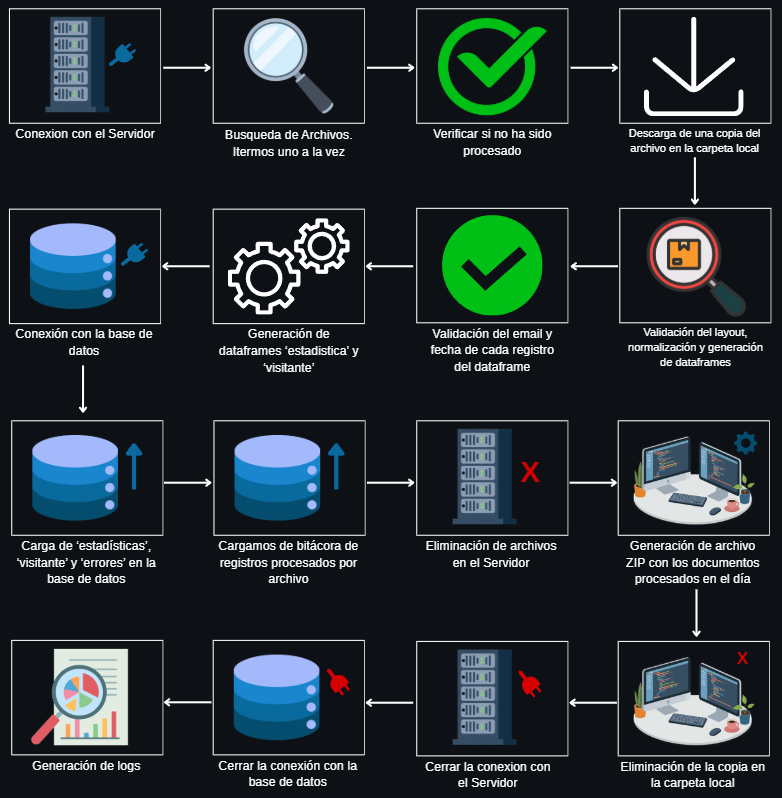
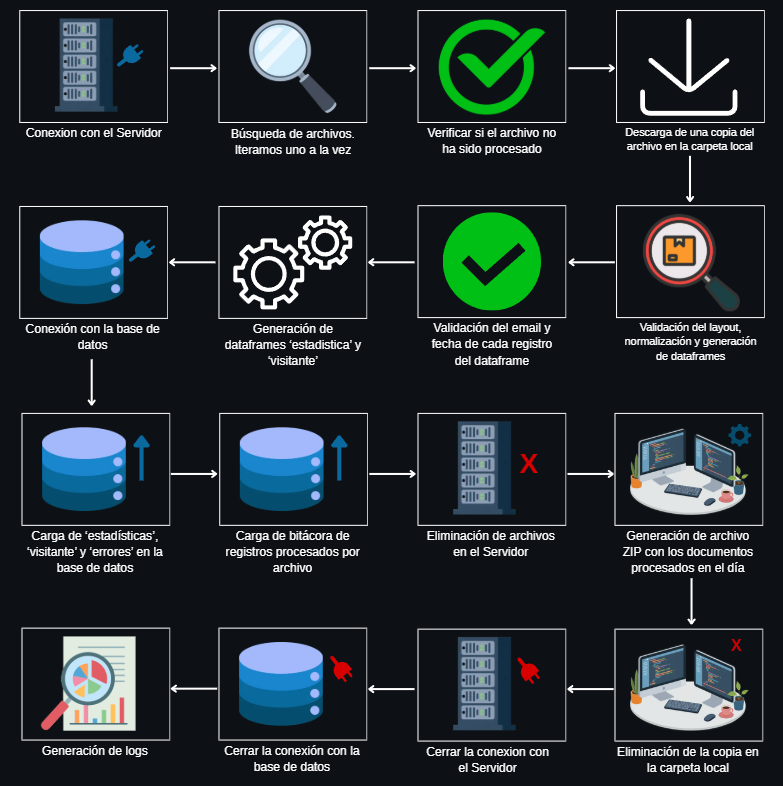
Imagenes y Readme

diff --git a/README.md b/README.md
@@ -114,7 +114,7 @@ report_*.txt
 
 - El segundo campo del archivo puede variar (`jyv`, `jk`, `fgh`, etc.), pero internamente siempre es normalizado como **jyv**.
 
-- Los emails son validados mediante expresiones regulares.
+- Los emails son validados mediante el método *validate_email* que traemos de **email_validator**.
 
 - Las fechas son validadas utilizando el formato:
 